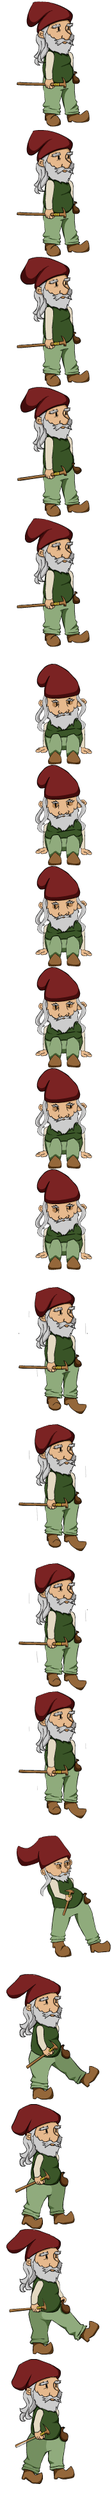
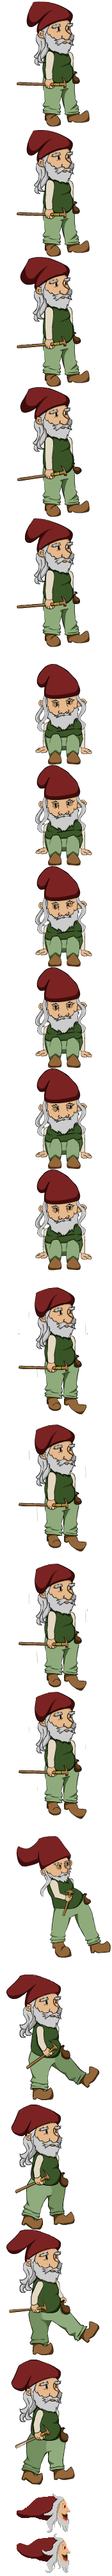
projectiles

diff --git a/js/Data/player.js b/js/Data/player.js
@@ -91,6 +91,19 @@ var playerData ={
 
 				
 			]
+		},
+		projectile:
+		{
+			fps:10,
+			cycle:true,
+			//width:300,
+			frames:
+			[
+				{width:84, height:61, startX:26, startY:3872},
+				{width:84, height:61, startX:26, startY:3934},
+
+				
+			]
 		}
 	}
 		

diff --git a/js/GameStates/level1.js b/js/GameStates/level1.js
@@ -91,7 +91,7 @@ for(let i=0; i<100; i++)
 	bullets[i].img.src="images/ground.jpg"
 	bullets[i].makeSprite(playerData)
 	bullets[i].y=-10000
-	bullets[i].changeState(`walk`)
+	bullets[i].changeState(`projectile`)
 }
 
 //console.log(bullets)
